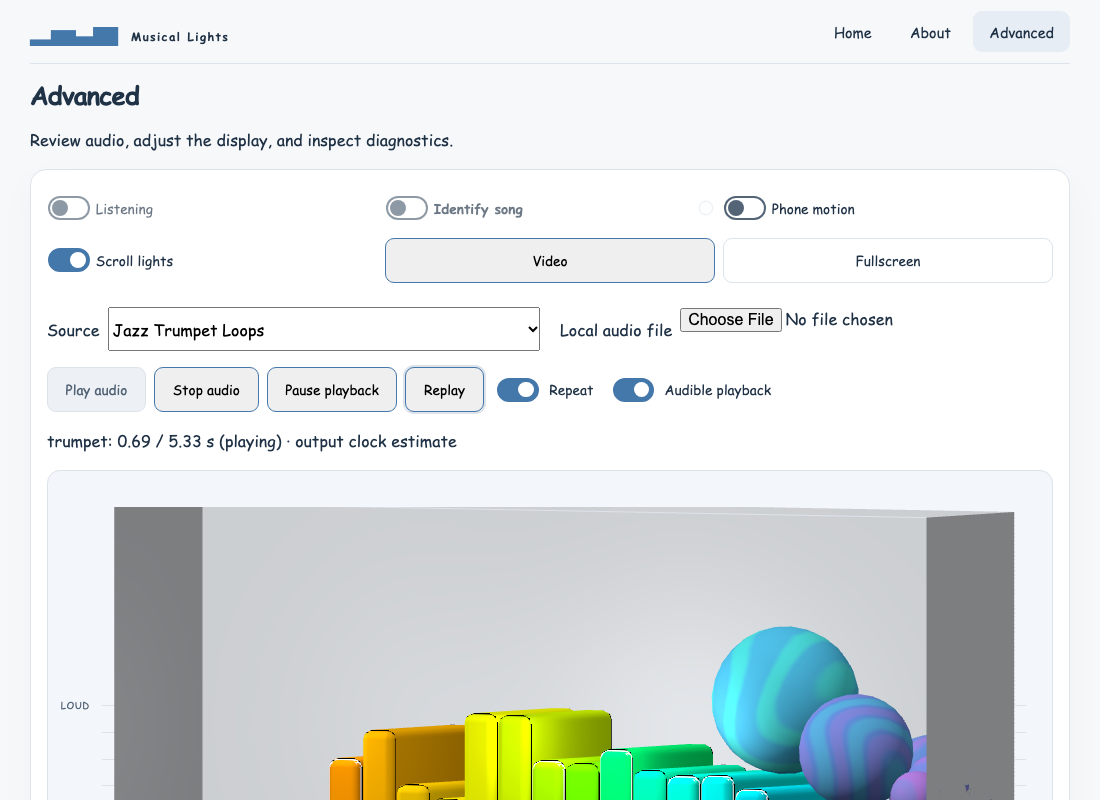
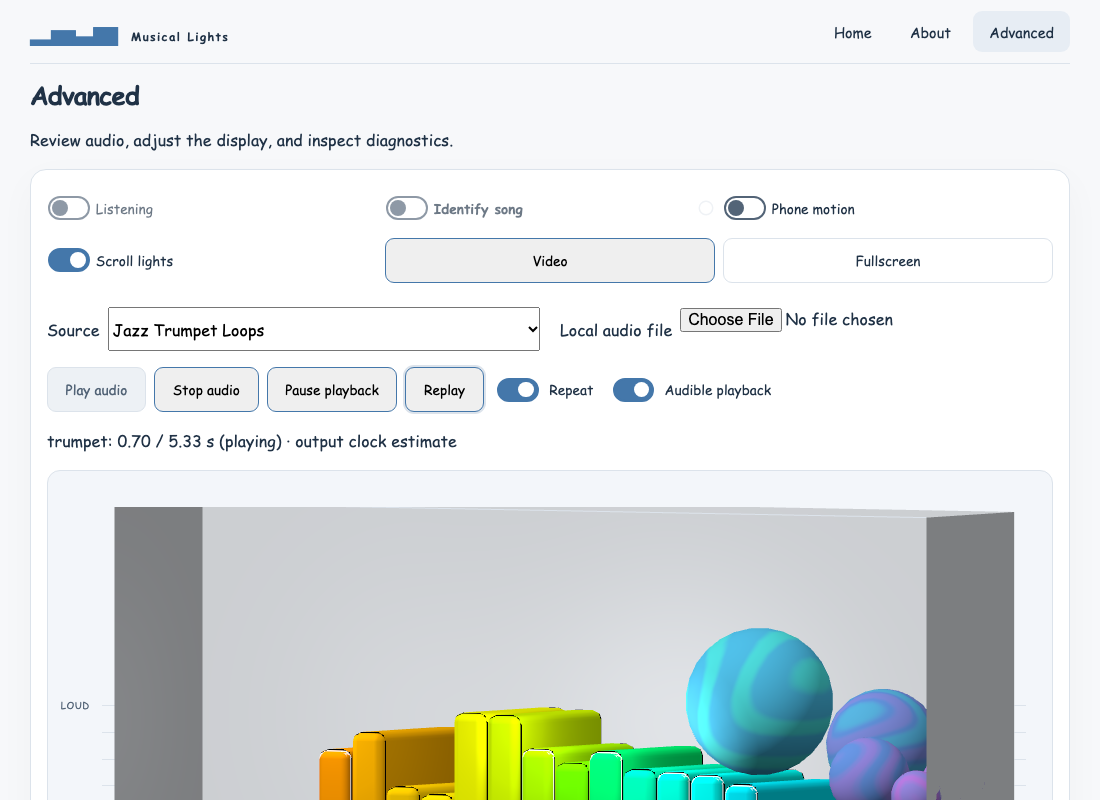
Exclude Reduced Motion pauses from core idle dance cycles

Changed region(s): [[0.2782, 0.7812, 0.8655, 1.0], [0.1236, 0.5312, 0.1545, 0.5625]]

diff --git a/musical-lights-core/src/lights/dance.rs b/musical-lights-core/src/lights/dance.rs
@@ -48,19 +48,27 @@ impl RecentPeak {
 pub struct IdlePeak {
     peak: RecentPeak,
     cycle: Option<u64>,
+    previous_at: Option<f64>,
+    moving_seconds: f64,
 }
 impl IdlePeak {
     pub fn push(&mut self, seconds: f64, reduced: bool) -> bool {
         if !seconds.is_finite() || seconds < 0.0 {
             return false;
         }
-        let cycle = Float::floor(seconds / if reduced { 12.0 } else { 6.0 }) as u64;
-        if self.cycle.is_some_and(|old| cycle < old) {
+        if self.previous_at.is_some_and(|last| seconds < last) {
             return false;
         }
+        let dt = self.previous_at.map_or(0.0, |last| seconds - last);
+        self.previous_at = Some(seconds);
+        if !reduced {
+            self.moving_seconds += dt;
+        }
+        let cycle = Float::floor(self.moving_seconds / 6.0) as u64;
         let completed = self.cycle.is_some_and(|old| cycle > old);
         self.cycle = Some(cycle);
-        self.peak.push(seconds, 0.75, completed && !reduced)
+        self.peak
+            .push(self.moving_seconds, 0.75, completed && !reduced)
     }
 }
 
@@ -230,5 +238,24 @@ mod tests {
         for i in 0..3000 {
             assert!(!reduced.push(f64::from(i) / 50.0, true));
         }
+    }
+
+    #[test]
+    fn reduced_motion_pauses_the_idle_cycle_clock_without_a_resume_draw() {
+        let mut idle = IdlePeak::default();
+        for (at, reduced) in [
+            (0.0, false),
+            (1.0, false),
+            (6.0, true),
+            (6.01, false),
+            (6.08, false),
+            (10.9, false),
+            (11.0, false),
+            (11.02, false),
+        ] {
+            assert!(!idle.push(at, reduced), "at={at}, reduced={reduced}");
+        }
+        assert!(idle.push(11.10, false));
+        assert!(!idle.push(11.11, false));
     }
 }

diff --git a/docs/youtube-dance.md b/docs/youtube-dance.md
@@ -48,7 +48,8 @@ Neither the browser nor Rapier decides whether an acoustic crest qualifies.
 - Travel follows smoothed tempo at two columns per beat: four columns per
   second at 120 BPM. Changes retain continuous position and ease velocity.
 - `IdlePeak` keeps separate synthetic history. Idle motion can draw only after
-  a completed travelling-wave cycle and a qualifying synthetic crest.
+  a completed travelling-wave cycle and a qualifying synthetic crest. Its
+  internal clock excludes Reduced Motion pauses, including when motion resumes.
 - `flight_height` and `release_speed` calculate the shared flight budget and
   `sqrt(2gh)` speed limit. Normal flight reserves 30% of available enclosure
   space after ball clearance; the slider allows 0–50%. Reduced Motion halves
@@ -83,9 +84,12 @@ YouTube test uses Google's public iframe-demo video and no recognition upload.
 Run checks from the repository root with pinned tools. Use macOS host access for
 browser commands. Keep the serial startup guard, one worker, and zero retries.
 
-The final full browser run passes 382 checks with zero failures and two opt-in
-skips. Core passes 67 tests in each of four feature configurations; physics
-passes 42 tests and the offline harness passes 73. Worklet, Leptos, and reference
+The complete macOS browser run passes 382 checks with zero failures and two
+opt-in skips before the idle pause correction. Core passes 68 tests in each
+of four feature configurations; physics passes 42 tests and the offline harness
+passes 74, including the pause regression. All 61 final-build checks for
+YouTube, musical motion, Advanced controls, keyboard, and Reduced Motion pass
+in Chromium, WebKit, and the iPhone profile. Worklet, Leptos, and reference
 checks pass. The core also compiles for both `thumbv6m-none-eabi` and
 `thumbv7em-none-eabihf` without `std`. All 38 complete acoustic traces match
 the deployed PR #39 WASM bit for bit. Historical fixed-window numeric results

diff --git a/docs/musical-motion-results/README.md b/docs/musical-motion-results/README.md
@@ -41,7 +41,8 @@ four columns per second at 120 BPM, twice the initial PR speed. Direction change
 require a qualifying new recent loud attack. One draw gives 90% unchanged, 5%
 horizontal reversal, and 5% floor/ceiling change at the default 10% total chance.
 There is no timed reversal. Idle motion can draw after a completed wave cycle,
-using separate crest history. Position stays continuous through tempo changes. Reduced
+using separate crest history. The core excludes Reduced Motion pauses from that
+cycle clock. Position stays continuous through tempo changes. Reduced
 Motion disables automatic travel. The rate is defined in the shared core, so
 embedded displays and the browser adapter use the same motion.
 
